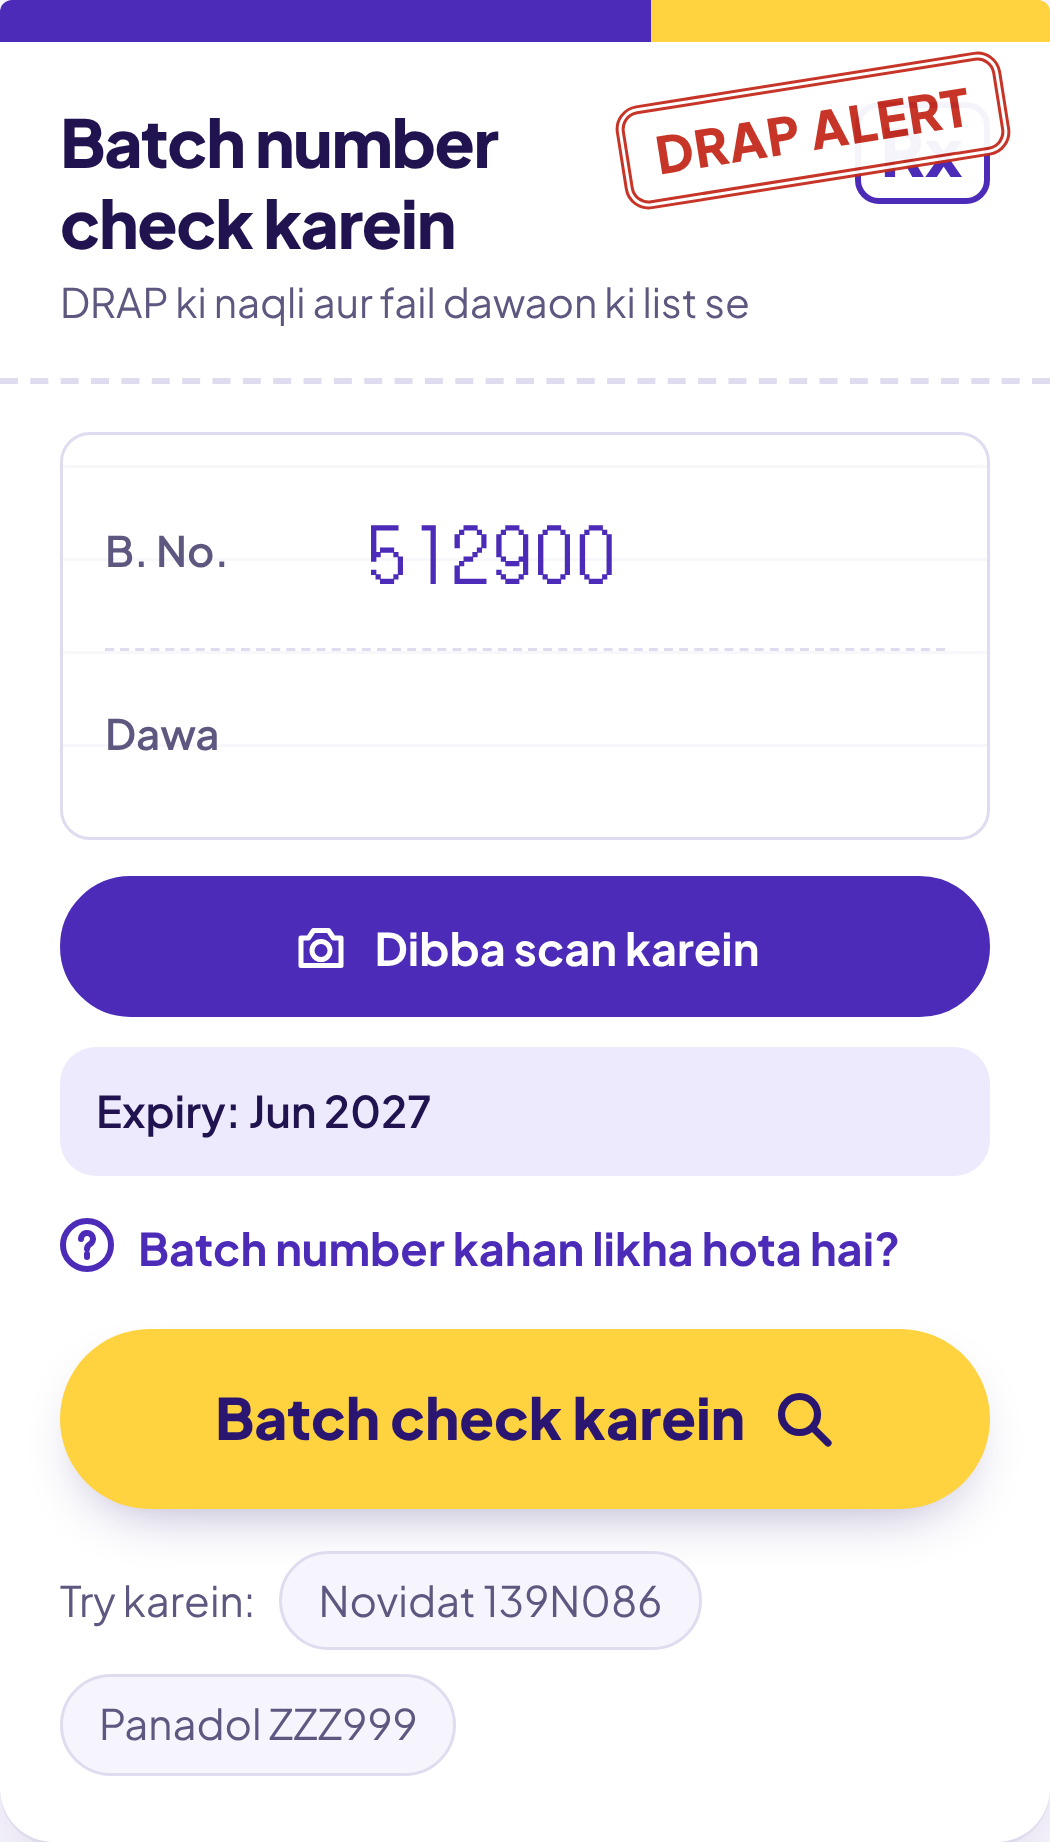
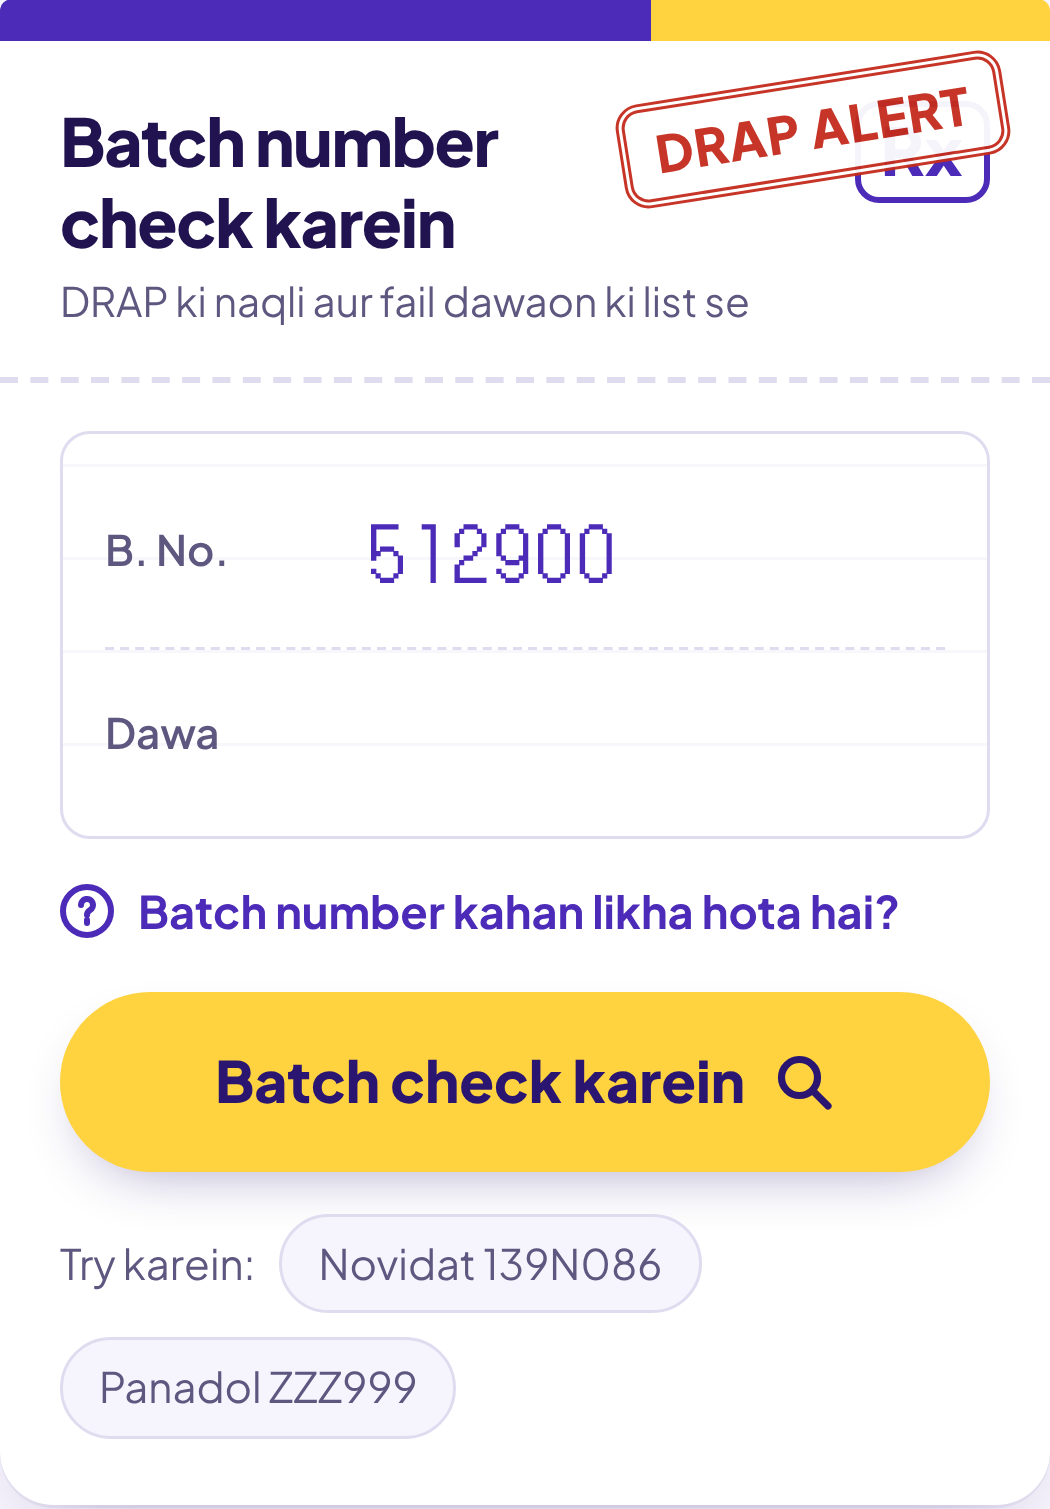
Explainer: drop the box scanner (not live yet); every screen recaptured from the live site
Shot I now types the batch number instead of scanning it. Roman cut uses
its own price-box height.

Claude-Session: https://claude.ai/code/session_01Ud3eutDwKm1843vnnsbsmo

diff --git a/video/dawa-explainer/film.js b/video/dawa-explainer/film.js
@@ -23,7 +23,7 @@ const HITS = [
   [34.4, 'logo', 'bell', { pitch: 'D6', gain: 0.16 }],
   [41, 'typing', 'type', { len: 0.9, n: 9, gain: 0.1 }], [42.4, 'pack', 'click', { gain: 0.12 }],
   [49, 'verdict', 'blip', { pitch: 'F#5', gain: 0.12 }],
-  [57.6, 'scan tap', 'click', { gain: 0.12 }], [61, 'code read', 'blip', { pitch: 'D6', gain: 0.12 }],
+  [57.6, 'typing batch', 'type', { len: 1.1, n: 6, gain: 0.1 }], [60, 'DRAP alert', 'blip', { pitch: 'D6', gain: 0.12 }],
   [70.8, 'end logo', 'bell', { pitch: 'D6', gain: 0.14 }],
 ];
 
@@ -78,7 +78,7 @@ const T = {
   cmp1: tr('Still overcharged? Call DRAP,', 'Phir bhi zyada? DRAP ko call karein,'),
   cmp2: tr('or send the ready complaint.', 'ya tayyar complaint bhejein.'),
   b1: tr('Check the batch too.', 'Batch bhi check karein.'),
-  b2: tr('Scan the 2D code on the box.', 'Dibbe ka 2D code scan karein.'),
+  b2: tr('Type the batch number from the box.', 'Dibbe par likha batch number daalein.'),
   b3: tr('Matched against 756 DRAP alerts.', '756 DRAP alerts se foran match.'),
   chipsEy: tr('DAWACHECK.PK IS', 'DAWACHECK.PK'),
   chips: tr(['Free', 'No login, no sign-up', 'English + Roman Urdu', '21,551 official prices'],
@@ -273,7 +273,7 @@ function sReveal(ctx, u) {
 }
 
 // ---------------------------------------------------------------- 5 price check on the phone   (u 40..49)
-const PH = 1125;
+const PH = RU ? 1203 : 1125; // the Roman price box is a little taller
 function sPrice(ctx, u, IMG) {
   fill(ctx, C.paper);
   const cap1 = 1 - E.inCubic(prog(u, 43.8, 44.2));
@@ -290,7 +290,7 @@ function sPrice(ctx, u, IMG) {
   ctx.save(); rrect(ctx, sx, sy, sw, 1300, 62); ctx.clip();
   ctx.fillStyle = C.paper; ctx.fillRect(sx, sy, sw, 1300);
   const k = sw / 1050;
-  const scroll = springKeys(u, [[40, 0], [42.6, 300], [44.2, 620]], SPRING.gentle);
+  const scroll = springKeys(u, [[40, 0], [42.6, 300 + (PH - 1125) * k], [44.2, 620 + (PH - 1125) * k]], SPRING.gentle);
   const top = sy + 30 - scroll;
   ctx.drawImage(IMG.priceEmpty, sx, top, sw, PH * k);
   const tp = prog(u, 41, 41.9);
@@ -331,41 +331,28 @@ function sVerdict(ctx, u, IMG) {
   ctx.restore();
 }
 
-// ---------------------------------------------------------------- 7 batch check with the scanner   (u 56..66)
+// ---------------------------------------------------------------- 7 batch check   (u 56..66)
 function sBatch(ctx, u, IMG) {
   const enter = 1 - E.inOutCubic(prog(u, 55.6, 56.2));
   const leave = E.inOutCubic(prog(u, 65.6, 66.2));
   ctx.save(); ctx.translate((enter - leave) * W, 0);
   fill(ctx, C.paper);
-  line(ctx, [[T.b1, C.ink]], X0, 230, 62, u, 56.3, { exitU: 60.9 });
-  line(ctx, [[T.b2, C.rx]], X0, 306, 50, u, 56.8, { weight: 700, fam: UI, exitU: 60.95 });
-  line(ctx, [[T.b3, C.ink]], X0, 270, 52, u, 61.4, { weight: 700, fam: UI });
-  const cw = 820, k = cw / 1050, src = [0, 0, 1050, 1160], ch = 1160 * k, cx = (W - cw) / 2, cy = 380;
-  const hit = u >= 61;
-  const pk = hit ? 1 + 0.05 * wobble(u - 61, 2.6, 6) : 1;
+  line(ctx, [[T.b1, C.ink]], X0, 230, 62, u, 56.3, { exitU: 60.1 });
+  line(ctx, [[T.b2, C.rx]], X0, 306, 50, u, 56.8, { weight: 700, fam: UI, exitU: 60.15 });
+  line(ctx, [[T.b3, C.ink]], X0, 270, 52, u, 60.6, { weight: 700, fam: UI });
+  const cw = 840, k = cw / 1050, src = [0, 0, 1050, 1180], ch = 1180 * k, cx = (W - cw) / 2, cy = 380;
+  const hit = u >= 60;
+  const pk = hit ? 1 + 0.05 * wobble(u - 60, 2.6, 6) : 1;
   ctx.save(); ctx.translate(W / 2, cy + ch / 2); ctx.scale(pk, pk); ctx.translate(-W / 2, -(cy + ch / 2));
   card(ctx, cx, cy, cw, ch, 30);
   ctx.save(); rrect(ctx, cx, cy, cw, ch, 30); ctx.clip();
-  crop(ctx, hit ? IMG.batchAlert : IMG.batchEmpty, src, cx, cy, cw, ch);
-  ctx.restore(); ctx.restore();
-  // the tap on "Scan the box": a ring grows from the button (its centre in the capture is at y ~ 532 / 600 css px x3)
-  const tap = prog(u, 57.5, 58.1);
-  if (tap > 0 && tap < 1) {
-    const bx = W / 2, by = cy + 532 * 1.75 * k;
-    ctx.save(); ctx.strokeStyle = C.or; ctx.lineWidth = 6 * (1 - tap); ctx.beginPath(); ctx.arc(bx, by, 30 + tap * 90, 0, Math.PI * 2); ctx.stroke(); ctx.restore();
+  if (hit) crop(ctx, IMG.batchAlert, src, cx, cy, cw, ch);
+  else {
+    crop(ctx, IMG.batchEmpty, src, cx, cy, cw, ch);
+    const tp = prog(u, 57.6, 58.8); // the batch number types in, left to right
+    if (tp > 0) { ctx.save(); ctx.beginPath(); ctx.rect(cx, cy, (tp < 1 ? 360 + 260 * tp : 1050) * k, ch); ctx.clip(); crop(ctx, IMG.batchTyped, src, cx, cy, cw, ch); ctx.restore(); }
   }
-  // the real scanner screen slides up over it, reads the code, slides away
-  const sIn = springU(u, 58, SPRING.gentle), sOut = E.inCubic(prog(u, 60.6, 61));
-  if (sIn > 0 && sOut < 1) {
-    ctx.fillStyle = `rgba(10,6,30,${0.55 * Math.min(sIn, 1) * (1 - sOut)})`; ctx.fillRect(0, 0, W, H);
-    const sw = 840, sh = sw * 1236 / 1074, sx = (W - sw) / 2, sy = lerp(H + 40, 300, Math.min(sIn, 1.03)) + sOut * (H - 260);
-    ctx.save(); rrect(ctx, sx, sy, sw, sh, 40); ctx.clip(); ctx.drawImage(IMG.scanner, sx, sy, sw, sh); ctx.restore();
-    // reading line across the yellow frame
-    const fr = { x: sx + sw * 0.27, y: sy + sh * 0.215, w: sw * 0.46, h: sh * 0.42 };
-    const ly = fr.y + fr.h * (0.5 + 0.42 * Math.sin((u - 58.6) * Math.PI * 1.1));
-    if (u > 58.6) { ctx.fillStyle = 'rgba(255,210,63,.85)'; ctx.fillRect(fr.x + 10, ly - 3, fr.w - 20, 6); }
-  }
-  ctx.restore();
+  ctx.restore(); ctx.restore(); ctx.restore();
 }
 
 // ---------------------------------------------------------------- 8 what it is   (u 66..70)
@@ -415,7 +402,7 @@ M.film({
     priceEmpty: `assets/shots/${P}price_empty.png`, priceTyped: `assets/shots/${P}price_typed.png`, pack: `assets/shots/${P}pack.png`,
     pay120: `assets/shots/${P}pay_120.png`, pay160: `assets/shots/${P}pay_160.png`, pay250: `assets/shots/${P}pay_250.png`,
     verdict: `assets/shots/${P}verdict.png`,
-    batchEmpty: `assets/shots/${P}batch_empty.png`, batchAlert: `assets/shots/${P}batch_alert.png`, scanner: `assets/shots/${P}scanner.png`,
+    batchEmpty: `assets/shots/${P}batch_empty.png`, batchTyped: `assets/shots/${P}batch_typed.png`, batchAlert: `assets/shots/${P}batch_alert.png`,
   },
   hits: HITS,
   draw(ctx, u, t, IMG) {

diff --git a/video/dawa-explainer/docs/shotlist.md b/video/dawa-explainer/docs/shotlist.md
@@ -18,7 +18,7 @@ Product screens are real captures of dawacheck.pk in English (Roman cut uses the
 | F | 34–40 | 20.4–24 | **Reveal.** Logo lands (tick draws on), wordmark **dawacheck.pk** rises. Music lifts. | "Official medicine prices and fake-batch alerts. In seconds." |
 | G | 40–52 | 24–31.2 | Phone rises with real captures: type "Panadol Extend" → pick 20's pack → enter Rs 250 → meter runs into red → verdict card. | "1. Type the medicine." → "2. Enter what you paid." → "You paid Rs 89.43 over the legal price." |
 | H | 52–56 | 31.2–33.6 | Verdict slides up to the complaint options (real capture: DRAP helpline + ready complaint text). | "Overcharged? Call DRAP or send the ready complaint." |
-| I | 56–66 | 33.6–39.6 | Batch check tab. Tap **Scan the box**: real scanner screen reads the 2D code, batch fills in, **DRAP ALERT** stamp lands. | "Check the batch too. Type it, or scan the 2D code on the box." → "Matched against 756 DRAP alerts." |
+| I | 56–66 | 33.6–39.6 | Batch check tab (live site, no scanner): batch number 512900 types in, **DRAP ALERT** stamp lands. | "Check the batch too. Type the batch number from the box." → "Matched against 756 DRAP alerts." |
 | J | 66–70 | 39.6–42 | Four chips stack in. | "Free" · "No login" · "English + Roman Urdu" · "21,551 official prices" |
 | K | 70–75 | 42–45 | End card on purple: logo, **dawacheck.pk**, tagline. | "Check before you pay." / "Made for Pakistan." |
 
@@ -26,5 +26,5 @@ Roman Urdu cut: same film and timing, Roman copy (e.g. A: "Ek hi dawa. Do qeemat
 
 Notes
 - Every number is real: Rs 160.57 / Rs 89.43 (DRAP price for Panadol Extend 20's), heparin (Dawn), 248 / 417 / 756 (DRAP alerts in the site), 21,551 packs.
-- The scanner (shot I) is from PR #10. If that isn't merged before posting, swap shot I's scan for typing the batch number.
+- The box scanner (PR #10) is left out until it is live; every screen is captured from the live site.
 - Nothing claims a batch is "safe": shot I shows a flagged batch.
